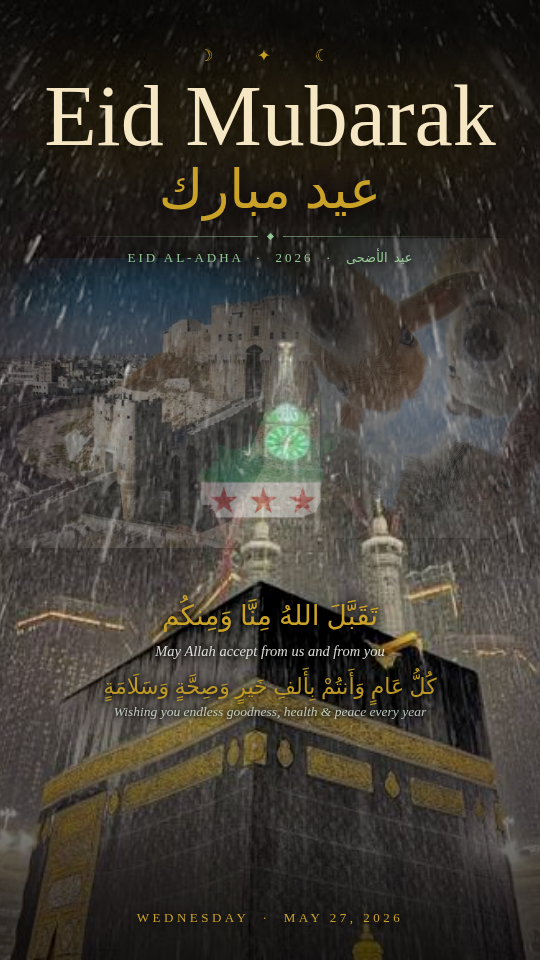
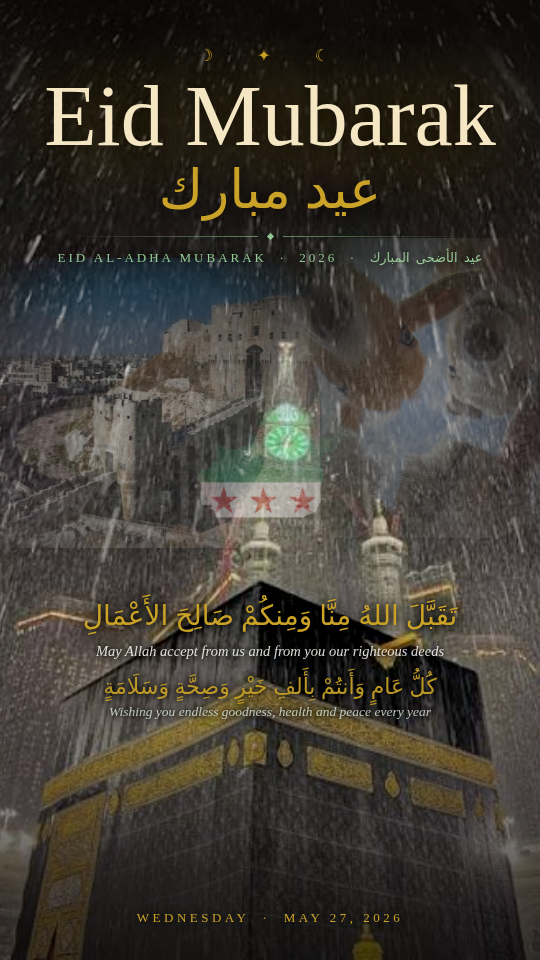
Write all text in full — no abbreviations
- Occasion: Eid al-Adha Mubarak / عيد الأضحى المبارك
- Full dua: تقبل الله منا ومنكم صالح الأعمال
- Full English: 'our righteous deeds', 'health and peace'

https://claude.ai/code/session_019CBrARttbbbXgwwEYbMM8D

diff --git a/eid-al-adha-flyer.html b/eid-al-adha-flyer.html
@@ -326,15 +326,15 @@ body { background: #000; }
       <div class="dv-gem"></div>
       <div class="dv-line-r"></div>
     </div>
-    <div class="occasion">Eid al-Adha &nbsp;·&nbsp; عيد الأضحى &nbsp;·&nbsp; 2026</div>
+    <div class="occasion">Eid al-Adha Mubarak &nbsp;·&nbsp; عيد الأضحى المبارك &nbsp;·&nbsp; 2026</div>
   </div>
 
   <!-- ── DUA (over Kaaba building) ── -->
   <div class="dua-block">
-    <span class="dua-ar">تَقَبَّلَ اللهُ مِنَّا وَمِنكُم</span>
-    <span class="dua-en">May Allah accept from us and from you</span>
-    <span class="blessing-ar">كُلُّ عَامٍ وَأَنتُمْ بِأَلفِ خَيرٍ وَصِحَّةٍ وَسَلَامَةٍ</span>
-    <span class="blessing-en">Wishing you endless goodness, health &amp; peace every year</span>
+    <span class="dua-ar">تَقَبَّلَ اللهُ مِنَّا وَمِنكُمْ صَالِحَ الأَعْمَالِ</span>
+    <span class="dua-en">May Allah accept from us and from you our righteous deeds</span>
+    <span class="blessing-ar">كُلُّ عَامٍ وَأَنتُمْ بِأَلفِ خَيْرٍ وَصِحَّةٍ وَسَلَامَةٍ</span>
+    <span class="blessing-en">Wishing you endless goodness, health and peace every year</span>
   </div>
 
   <!-- ── LOCATION + DATE (bottom) ── -->
